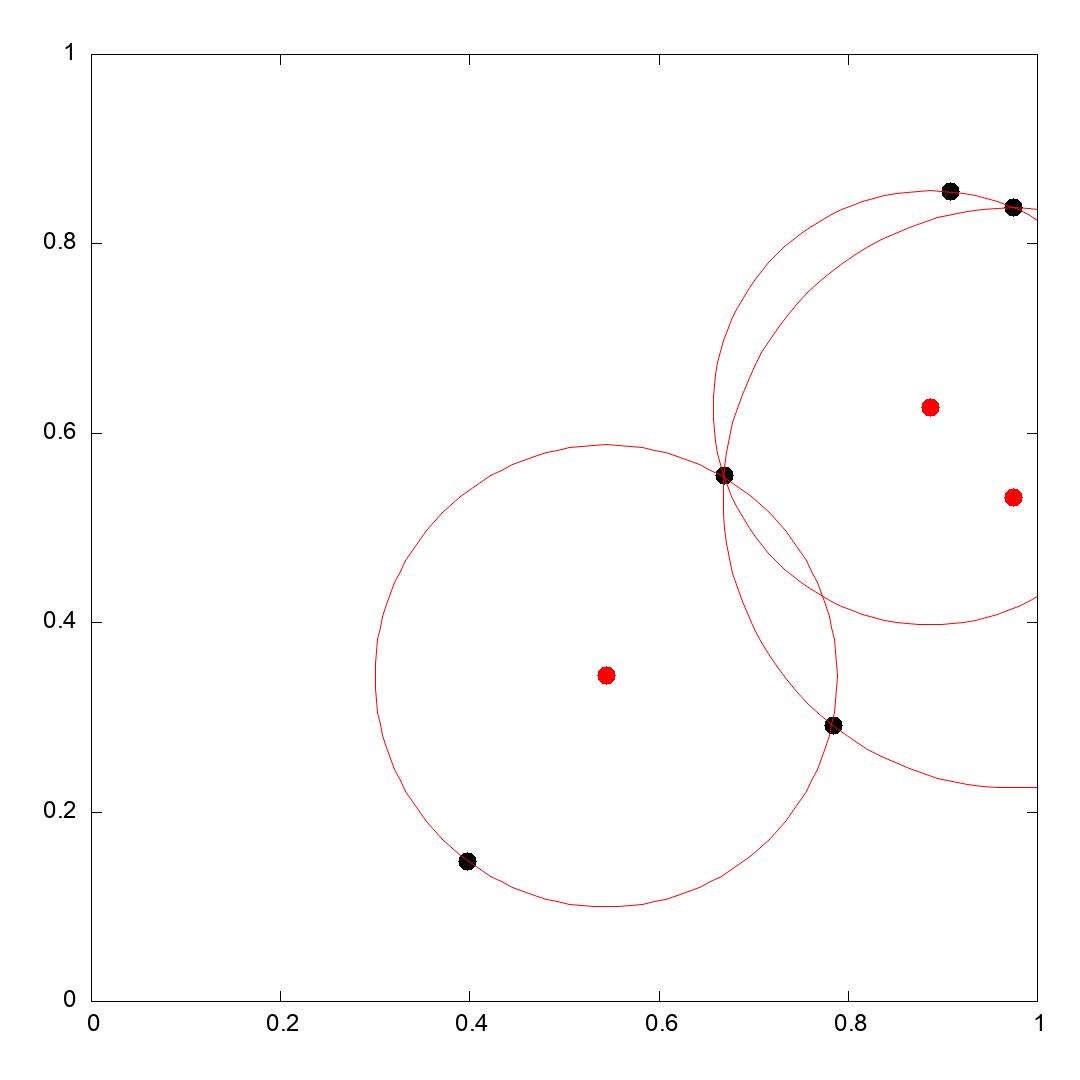
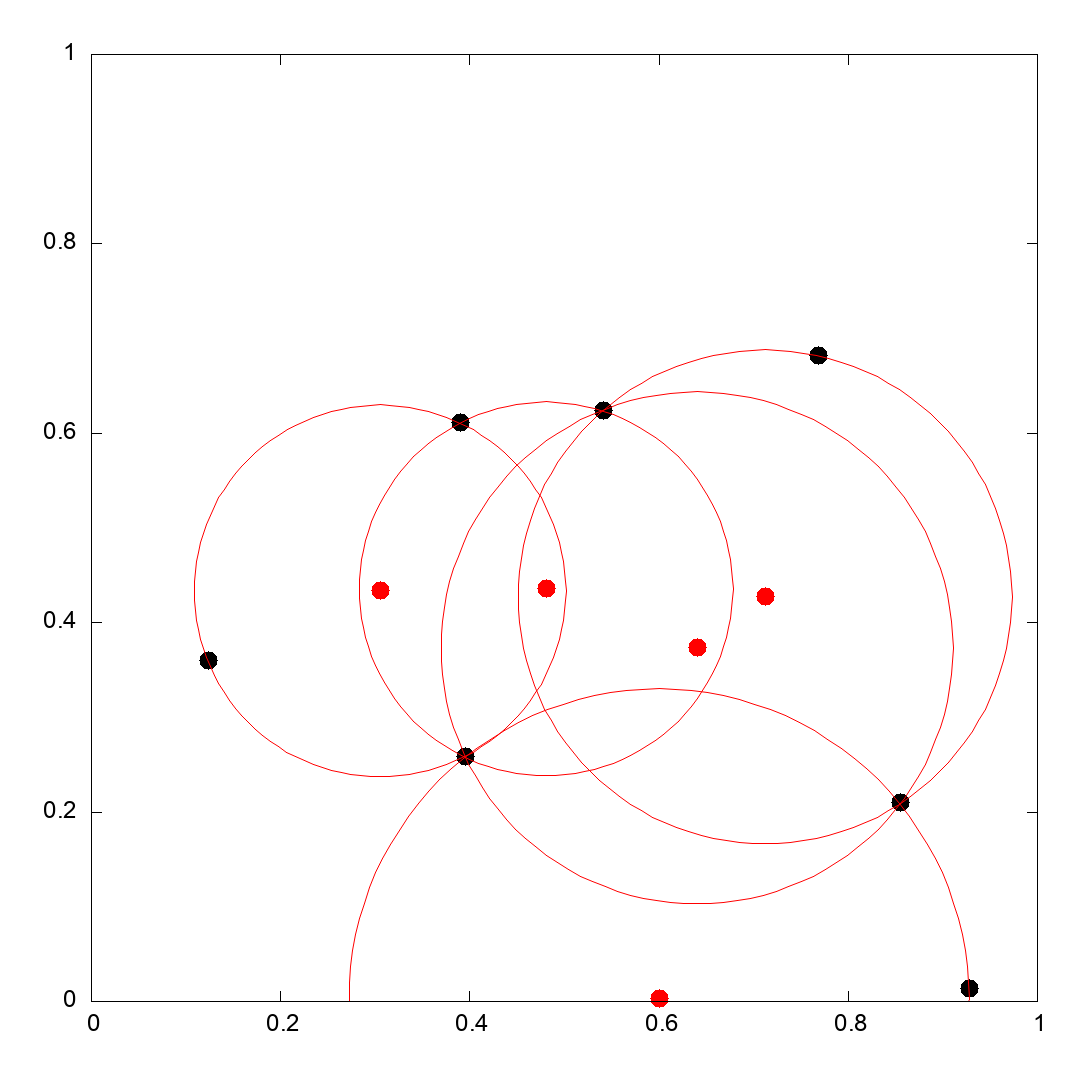
cleaned up a bit

diff --git a/src/queue.c b/src/queue.c
@@ -184,7 +184,7 @@ void add_vertex_events_involving(queue_T *queue, arc_T *arc, double current_y, p
         circ = points2circle(left2->focus, left->focus, arc->focus);
         p.x = circ.c.x;
         p.y = circ.c.y - circ.R;
-        if (p.y - current_y < -EPS && !circle_contains_seeds(circ, seeds, N)) {
+        if (p.y - current_y < -EPS && !circle_contains_seeds(circ, seeds, N, left2->focus, left->focus, arc->focus)) {
           add_event_if_nonexistent(queue, EVENT_VERTEX, p, circ.c, left); 
           //printf("%e\n", p.y-current_y);
         }
@@ -196,7 +196,7 @@ void add_vertex_events_involving(queue_T *queue, arc_T *arc, double current_y, p
     circ = points2circle(left->focus, arc->focus, right->focus);
     p.x = circ.c.x;
     p.y = circ.c.y - circ.R;
-    if (p.y - current_y < -EPS && !circle_contains_seeds(circ, seeds, N)) {
+    if (p.y - current_y < -EPS && !circle_contains_seeds(circ, seeds, N, left->focus, arc->focus, right->focus)) {
       add_event_if_nonexistent(queue, EVENT_VERTEX, p, circ.c, arc); 
       //printf("%e\n", p.y-current_y);
     }
@@ -208,7 +208,7 @@ void add_vertex_events_involving(queue_T *queue, arc_T *arc, double current_y, p
       circ = points2circle(arc->focus, right->focus, right2->focus);
       p.x = circ.c.x;
       p.y = circ.c.y - circ.R;
-      if (p.y - current_y < -EPS && !circle_contains_seeds(circ, seeds, N)) {
+      if (p.y - current_y < -EPS && !circle_contains_seeds(circ, seeds, N, arc->focus, right->focus, right2->focus)) {
         add_event_if_nonexistent(queue, EVENT_VERTEX, p, circ.c, right); 
         //printf("%e\n", p.y-current_y);
       }
@@ -260,12 +260,15 @@ void remove_vertex_events_involving(queue_T *queue, arc_T *arc)
 }
 
 
-int circle_contains_seeds(circle_T circle, point2D_T *seeds, int N) 
+int circle_contains_seeds(circle_T circle, point2D_T *seeds, int N, point2D_T ignore_1, point2D_T ignore_2, point2D_T ignore_3) 
 {
   for (int ii=0; ii<N; ii++) {
     double d_2 = pow((seeds[ii].x-circle.c.x), 2) + 
                  pow((seeds[ii].y-circle.c.y), 2);
-    if (d_2 < circle.R * circle.R - EPS) {
+    if (d_2 < circle.R * circle.R - EPS && 
+        !points_equal(seeds[ii], ignore_1) &&
+        !points_equal(seeds[ii], ignore_2) &&
+        !points_equal(seeds[ii], ignore_3)){
         return 1;
     }
   }

diff --git a/src/main.c b/src/main.c
@@ -8,10 +8,13 @@
 /* CURRENT STATE
  *  Right now, the code only produces and processes the correct 
  *  events, as well as making a cool video. However, the real
- *  voronoi diagram is not being constructed through the DCEL.
+ *  voronoi diagram is not being constructed through the DCEL, 
+ *  and some errors regarding vertex events are found
  */
 
 /* KNOWN PROBLEMS
+ *  [] Vertex events are sometimes not created, or the incorrect
+ *     arc disappears, note with higher number of seeds.
  *  [] If a given seed is very close to a circumcircle traced by 
  *     three adjacent arcs (a distance of EPS to the circle), then 
  *     the vertex event that should happen will not be created. This
@@ -22,16 +25,25 @@
  */
 
 /* TODO
+ * [?] Fix knwown problem 1
+ * [ ] Check if gnuplot and ffmpeg are installed before running
  * [ ] Work on DCEL to construct real voronoi diagram...
- * [ ] Make code more efficient: Use binary trees istead of linked lists for the beachline.
+ * [ ] Make code more efficient: Use binary trees istead of linked
+ *     lists for the beachline.
  */
 
 
-int main(void)
+int main(int argc, char **argv)
 {
   srand(time(NULL));
-
+  
   int N = 5;
+  if (argc == 2) {
+    N = atoi(argv[1]);
+  } else if (argc > 2) {
+    printf("Too many arguments!!\n Only input the number of seeds\n");
+    exit(1);
+  }
   point2D_T *seeds = random_seeds(1, N);
   write_seeds_txt(seeds, N, "seeds.txt");
   //plot_seeds(seeds, N);

diff --git a/src/fortune.c b/src/fortune.c
@@ -1,5 +1,6 @@
 #include <stdio.h>
 #include <stdlib.h>
+#include <unistd.h>
 #include "include/fortune.h"
 #include "include/queue.h"
 #include "include/geometry.h"
@@ -37,7 +38,6 @@ void event_site(queue_T *queue, beachline_T *bline, event_T event, point2D_T *se
   arc_T *arc_above = find_arc_above(*bline, event.p);
   remove_vertex_events_involving(queue, arc_above);
   arc_T *arc = insert_arc(bline, arc_above, event.p);
-  //printf("%f\n", event.p.y);
   add_vertex_events_involving(queue, arc, event.p.y, seeds, N);
 }
 
@@ -107,7 +107,15 @@ site_T *fortune_algorithm(point2D_T *seeds, int N)
   end_plot(pipe_plot);
   pclose(pipe_plot);
   pclose(pipe_video);
-  
+
+  // CONVERT VIDEO TO A GIF
+  sleep(1);  //Delay necessary to create mp4 file correctly!
+  char command_mp4_to_gif[1024];
+  char cwd[256];
+  getcwd(cwd, 256);
+  snprintf(command_mp4_to_gif, 1024, "ffmpeg -loglevel error -i %s/video.mp4 -vf \"fps=12,scale=640:-1:flags=lanczos\" -gifflags +transdiff -y video.gif 2>&1", cwd);
+  system(command_mp4_to_gif);
+
   return sites;
 }
 

diff --git a/src/include/queue.h b/src/include/queue.h
@@ -38,6 +38,6 @@ void add_vertex_events_involving(queue_T *queue, arc_T *arc, double current_y, p
 
 void remove_vertex_events_involving(queue_T *queue, arc_T *arc);
 
-int circle_contains_seeds(circle_T circle, point2D_T *seeds, int N);
+int circle_contains_seeds(circle_T circle, point2D_T *seeds, int N, point2D_T ignore_1, point2D_T ignore_2, point2D_T ignore_3);
 
 #endif

diff --git a/src/plot.c b/src/plot.c
@@ -41,7 +41,7 @@ void remove_files_in_directory(const char *path)
 
 FILE *popen_gnuplot(char *file_output)
 {
-  FILE *pipe = popen("gnuplot -persistent", "w");
+  FILE *pipe = popen("gnuplot -persistent 2>&1", "w");
   if (!pipe) {
     printf("ERROR! Cannot open gnuplot pipe...\n");
     exit(1);
